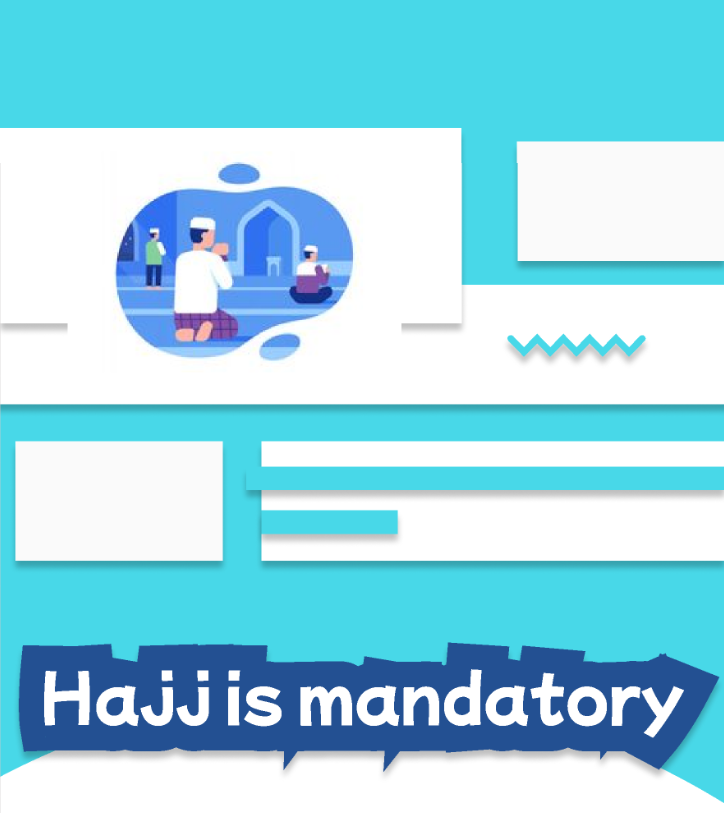
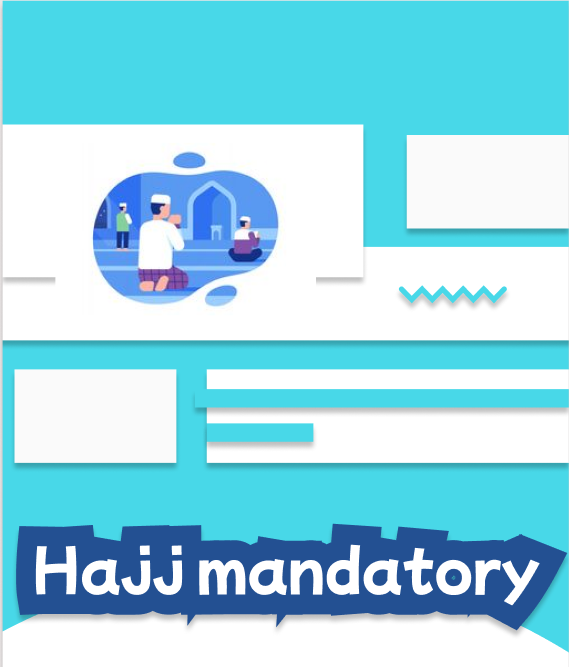
Perbaikan gambar pada page wajib haji usa

diff --git a/lib/main.dart b/lib/main.dart
@@ -1,6 +1,7 @@
 import 'package:flutter/material.dart';
 import 'package:haji/widget/laranganIhramIDN.dart';
 import 'package:haji/widget/tataCaraIDN.dart';
+import 'package:haji/widget/wajibHajiUSA.dart';
 
 void main() {
   runApp(const MyApp());
@@ -18,7 +19,7 @@ class MyApp extends StatelessWidget {
         colorScheme: ColorScheme.fromSeed(seedColor: Colors.deepPurple),
         useMaterial3: true,
       ),
-      home: const laranganIhramPage(),
+      home: const wajibHajiUSAPage(),
     );
   }
 }

diff --git a/lib/widget/wajibHajiUSA.dart b/lib/widget/wajibHajiUSA.dart
@@ -31,7 +31,7 @@ class _wajibHajiUSAPageState extends State<wajibHajiUSAPage> {
           Positioned.fill(
             top: 0.1,
             child: Image.asset(
-              'images/whUSA.png',
+              'images/whusa.png',
               alignment: Alignment.topCenter,
             ),
           ),
